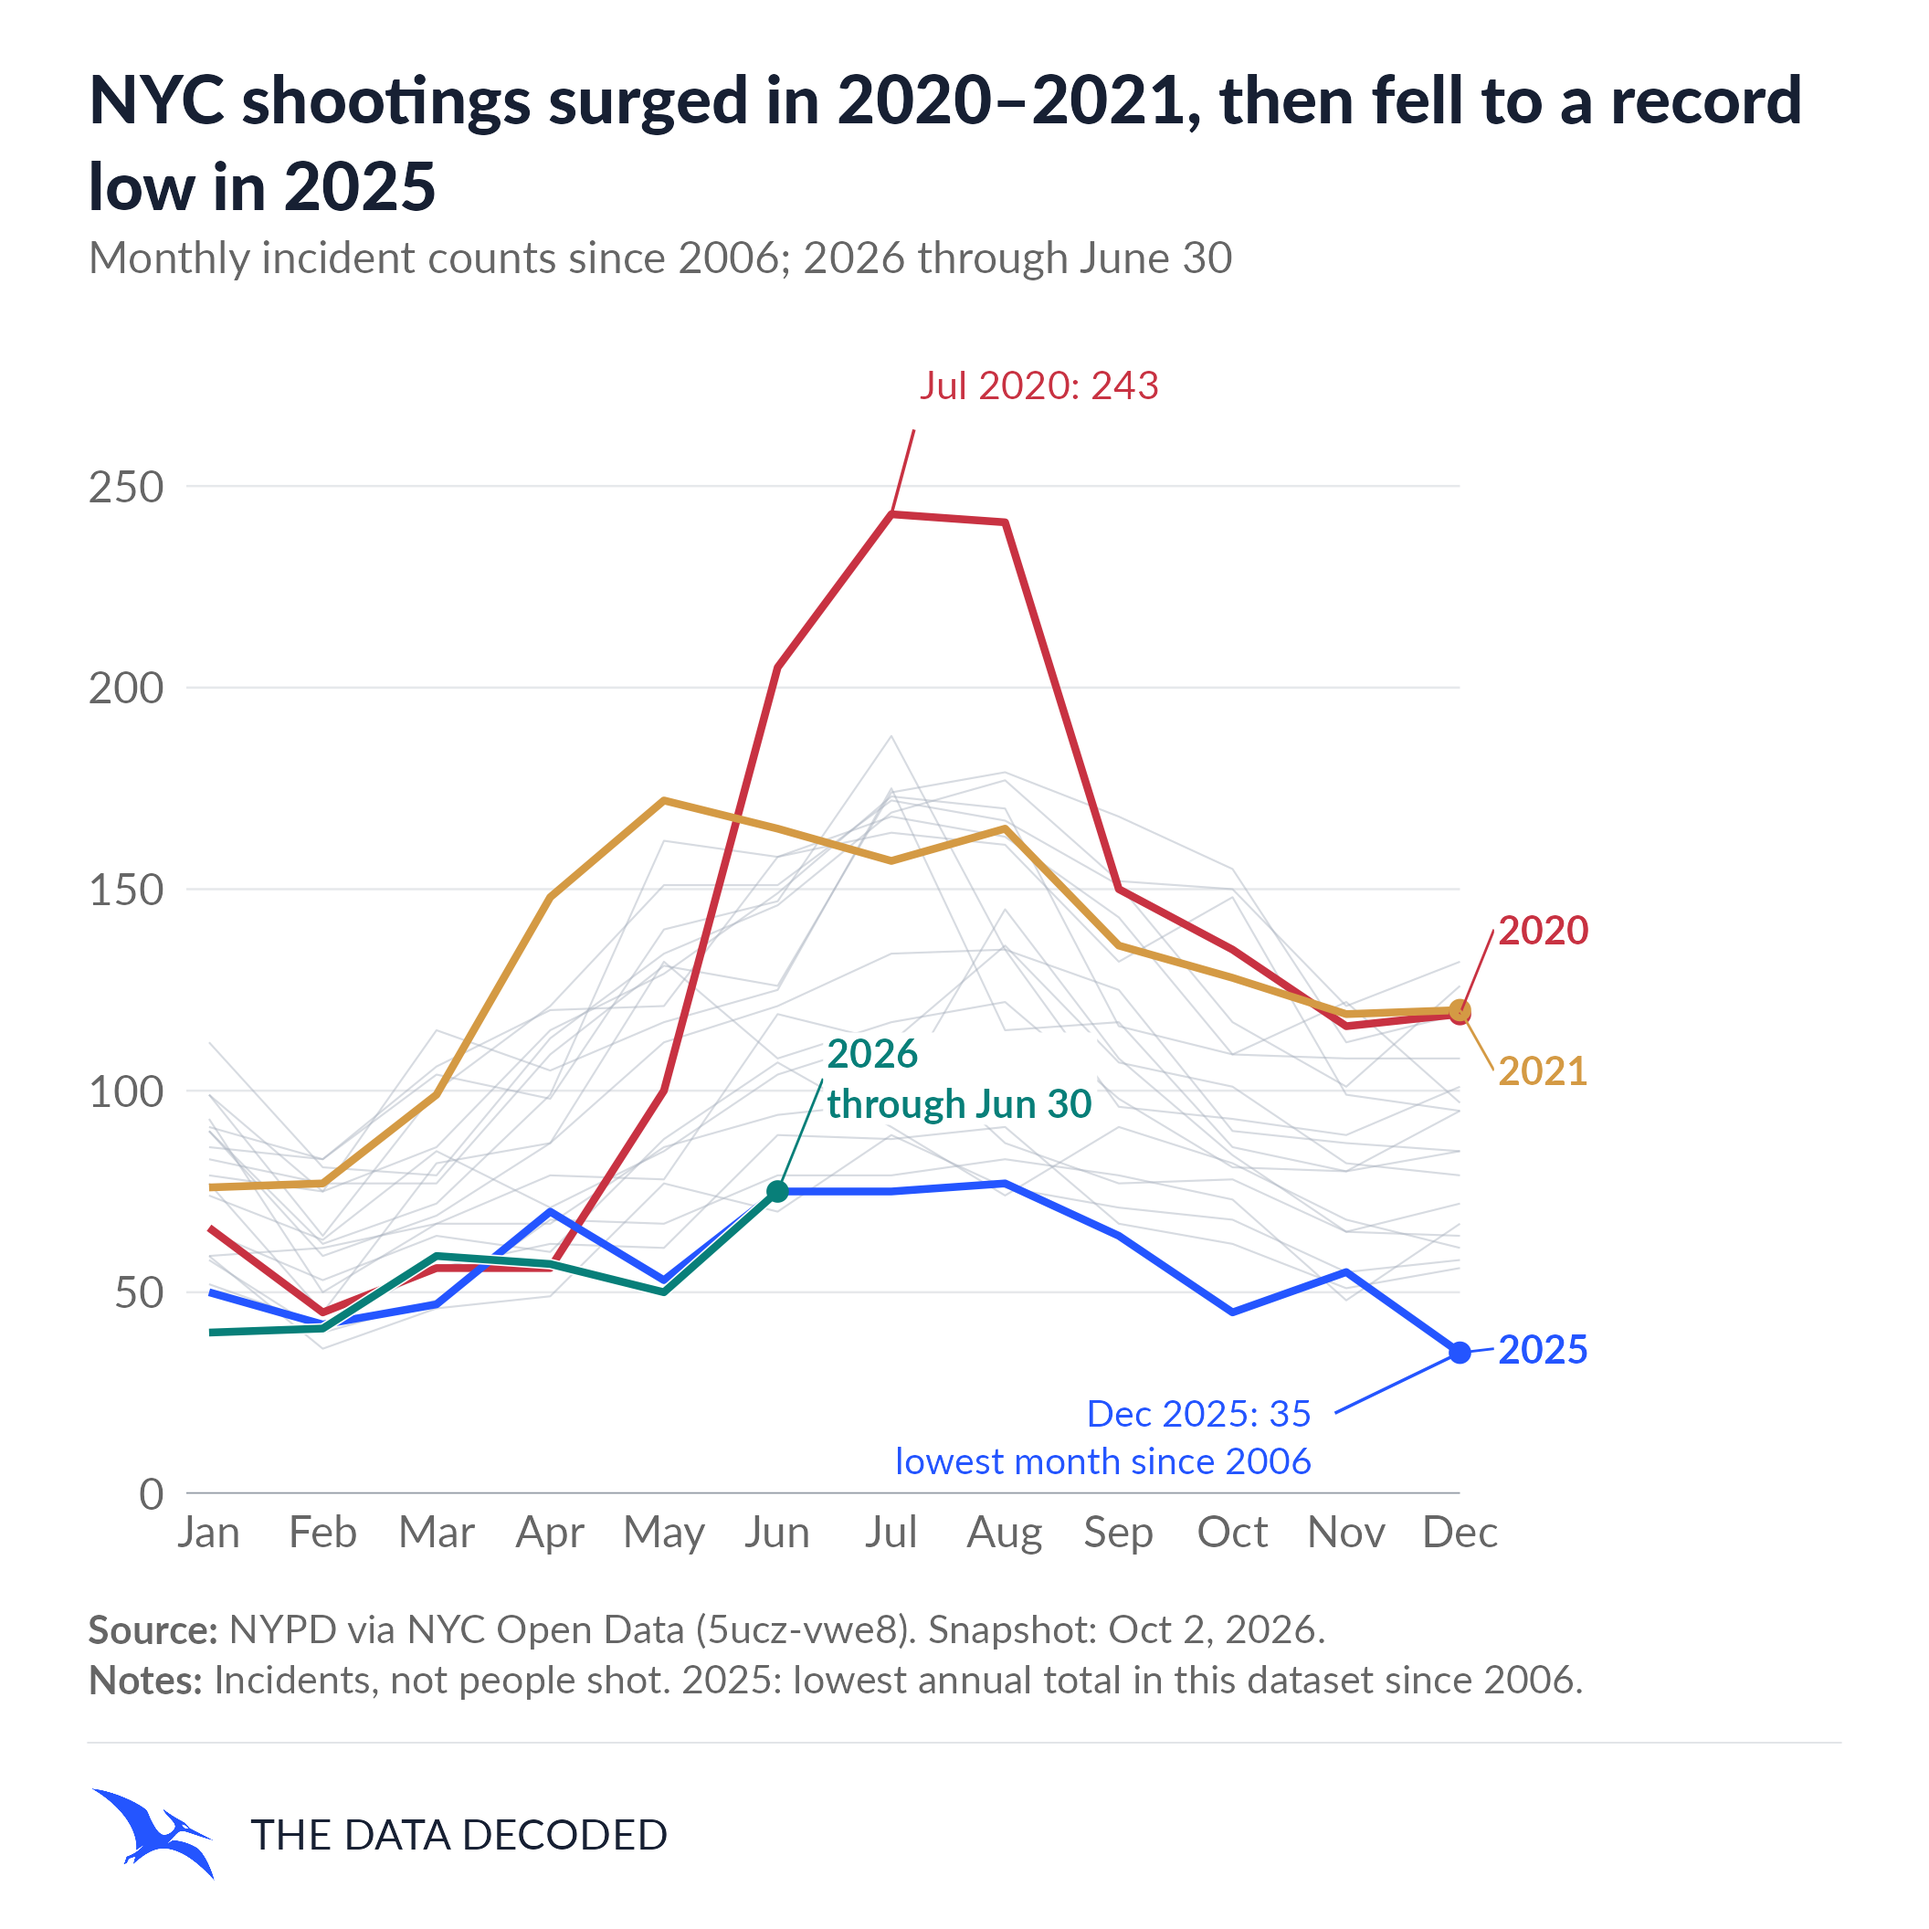
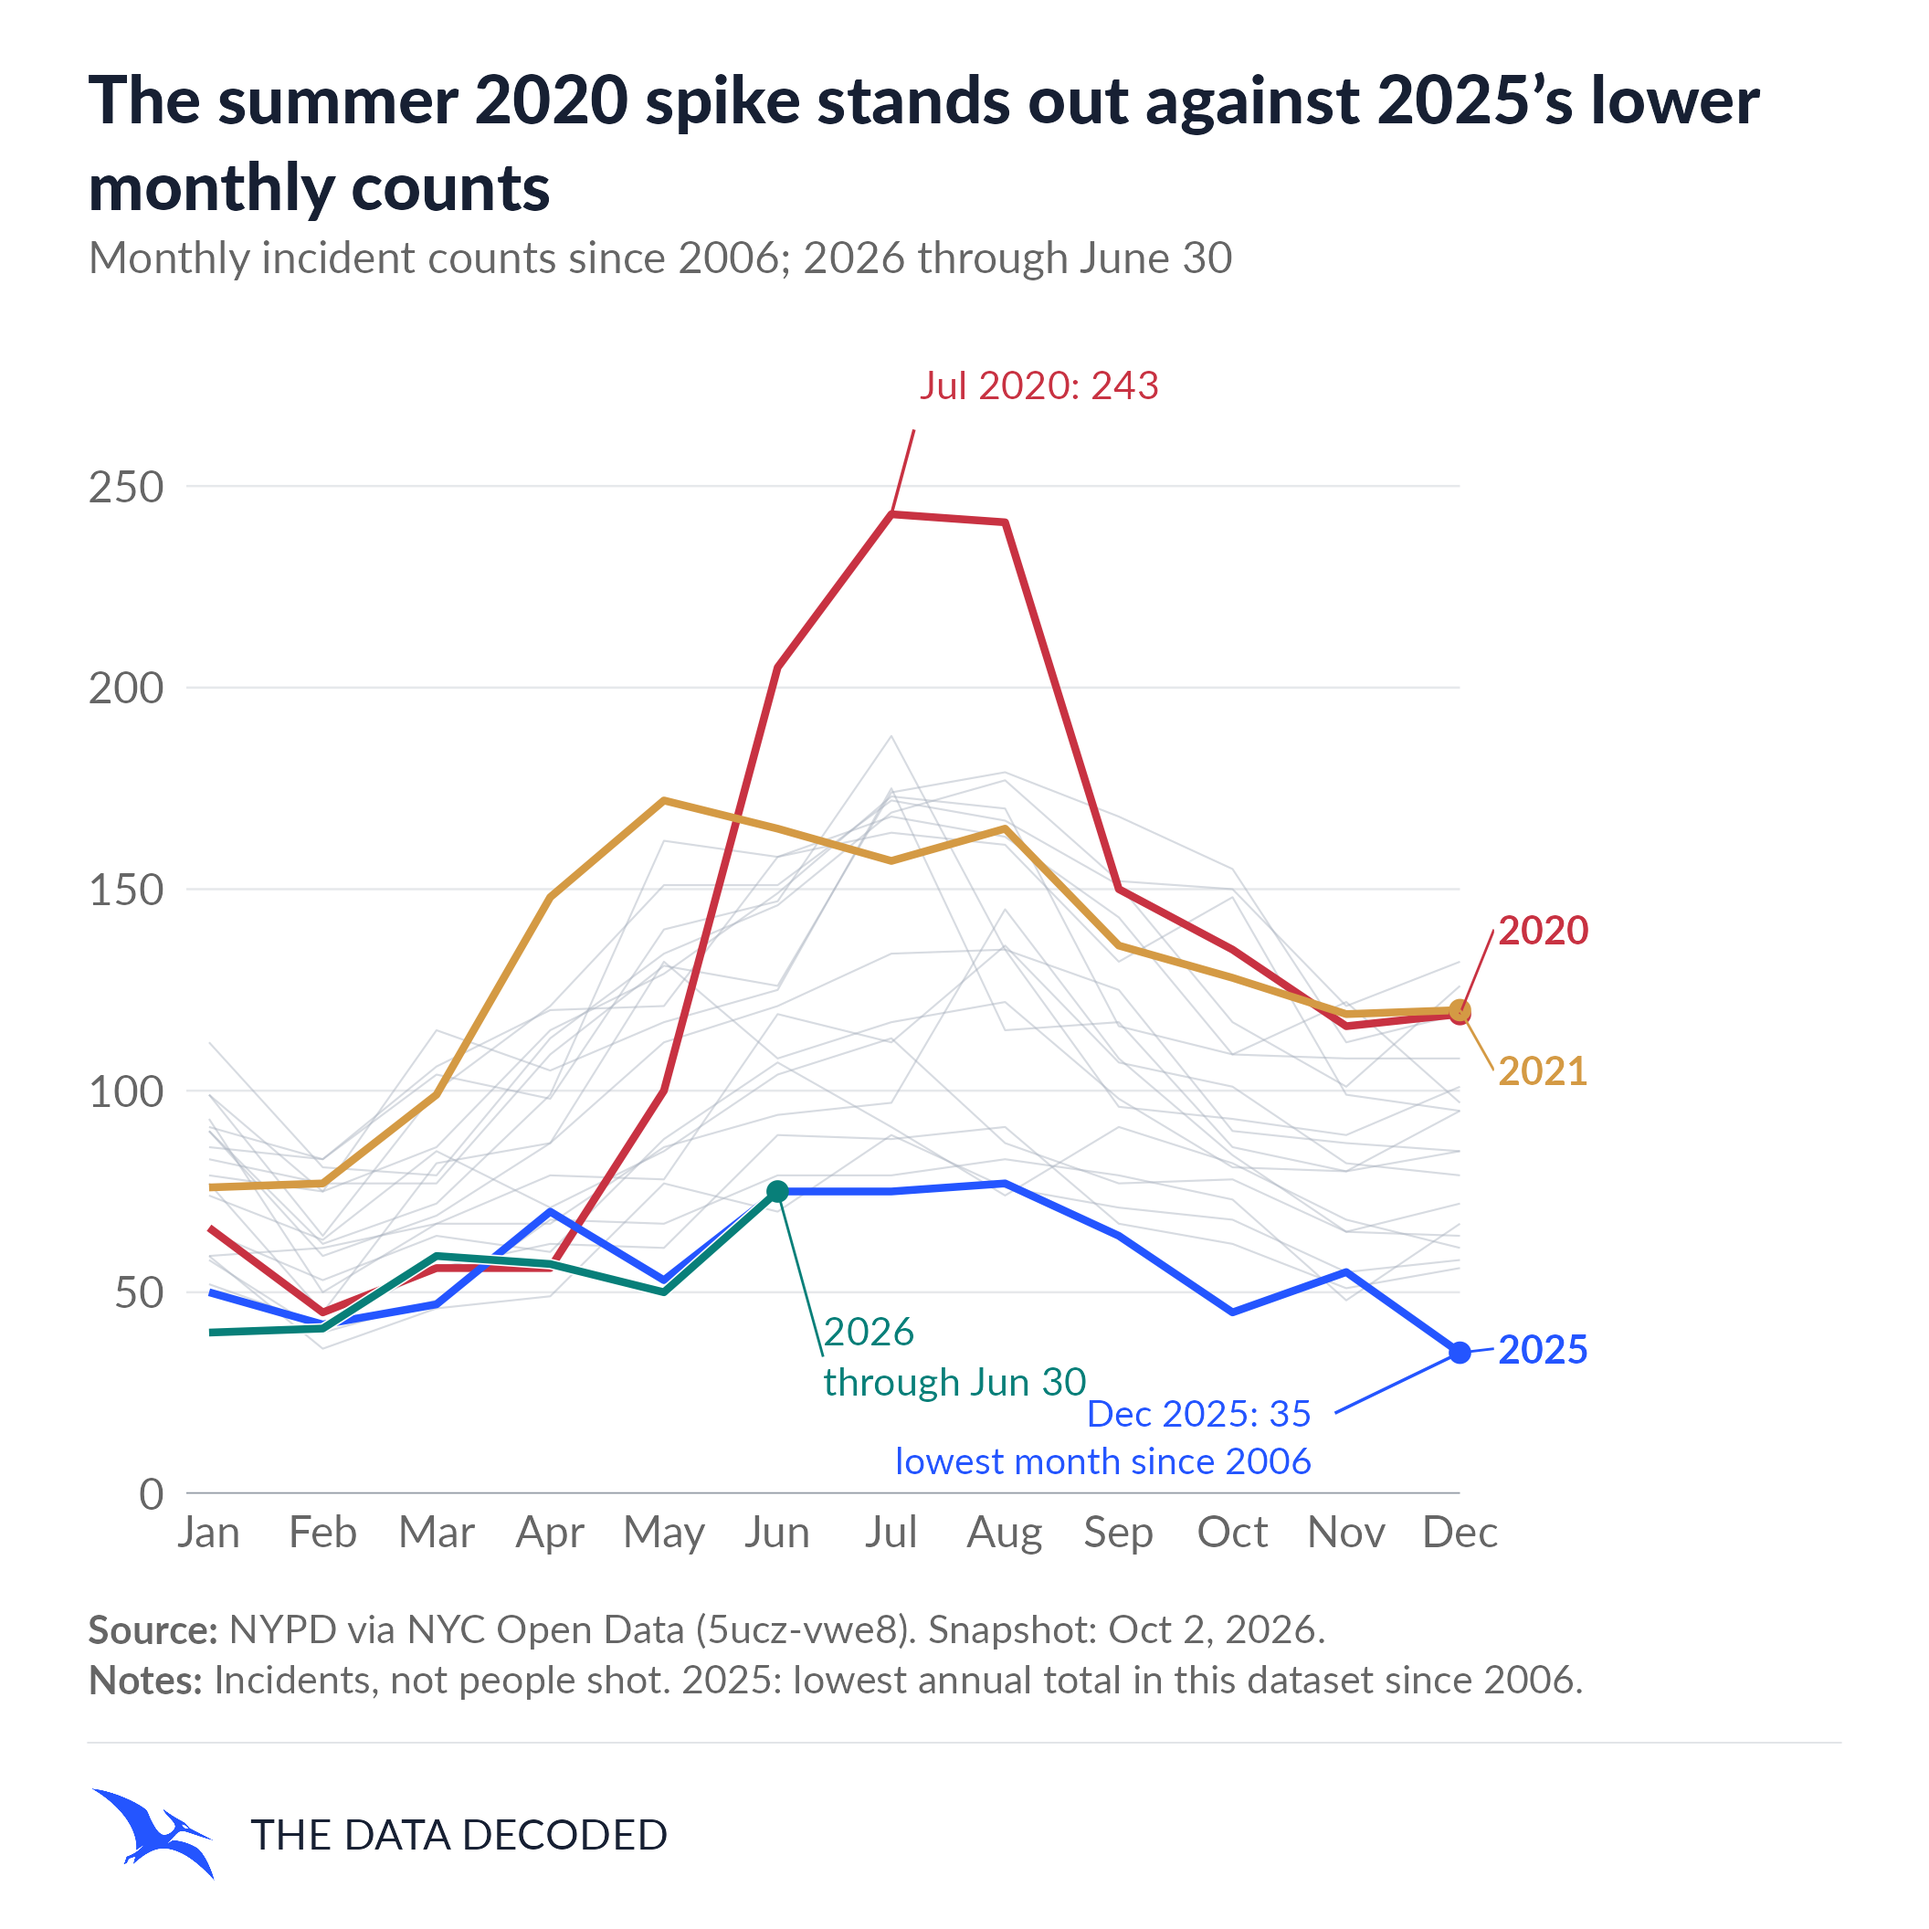
Refine monthly NYC title and 2026 annotation

Changed region(s): [[0.0312, 0.0312, 0.9375, 0.125], [0.4062, 0.5312, 0.5625, 0.5938], [0.4062, 0.6875, 0.5, 0.7188]]

diff --git a/visuals/2026-10-nyc-shootings/presentation-review.md b/visuals/2026-10-nyc-shootings/presentation-review.md
@@ -35,3 +35,7 @@ Both master pairs regenerated directly from R. Gridlines and the single darker z
 The cumulative annotation now reads "2025 had less than half / the shootings of 2021", left-aligned at February and vertically centered around 1,250 in supporting gray. Full-size PNG and 390 px PNG/SVG browser reviews found no collisions or clipping. XML checks confirmed one zero baseline per chart and all grid endpoints matching December; highlighted widths are equal. Both browser SVGs loaded Lato 400/700/900; exact-file R checks passed. The amber 2021 text remains faint at phone width and footer text remains compact; no new visual issues observed.
 
 pnpm build and pnpm verify passed, including draft exclusion and output allowlist. Saved snapshot, calculations, original reference exports and unrelated files remain unchanged. Story remains draft and X post unapproved.
+
+### Monthly title and 2026 annotation follow-up
+
+Monthly title now reads: "The summer 2020 spike stands out against 2025’s lower monthly counts". The 2026 annotation moves below the observed line to x=6.4, y=34, with Lato Regular 400 at the same 4.6 mm size as the July annotation, no white text background, and its solid teal connector retained. Full-size regenerated PNG reviewed: the text is clear of historical lines and the December annotation. Cumulative exports and verified calculations are unchanged. PNG/SVG regenerated directly from R; no build or test rerun for this presentation-only follow-up.
